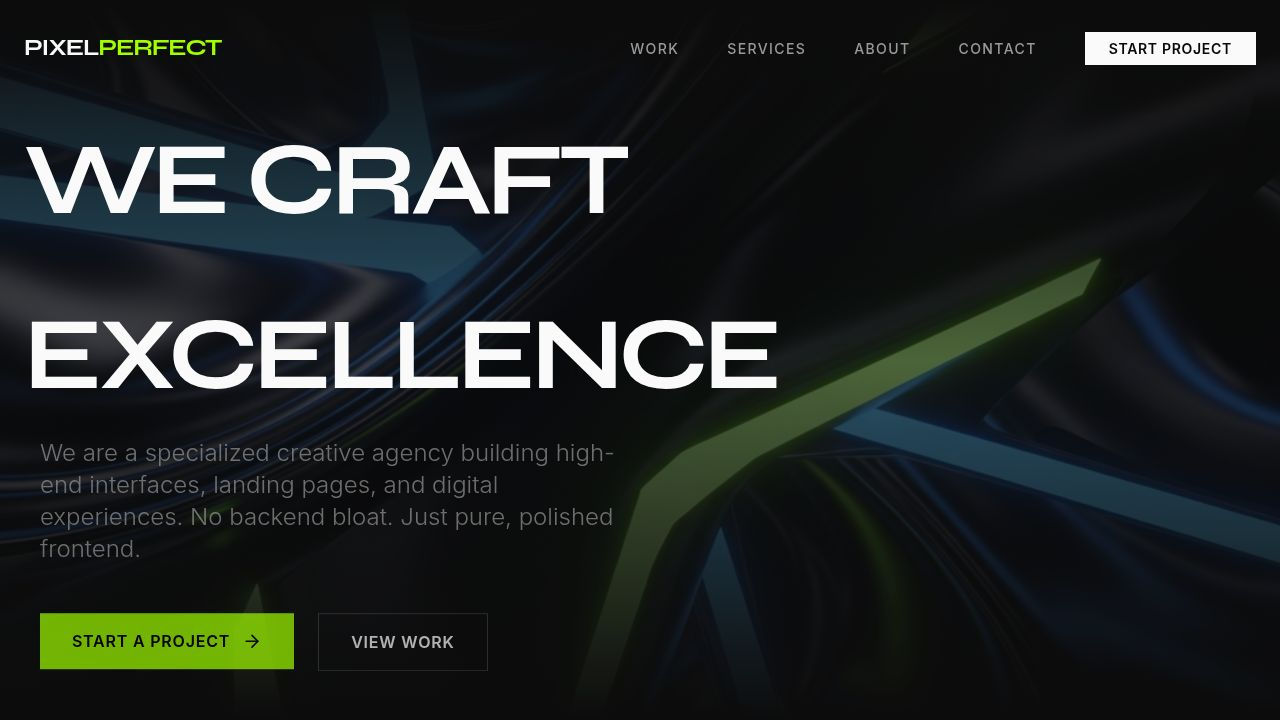
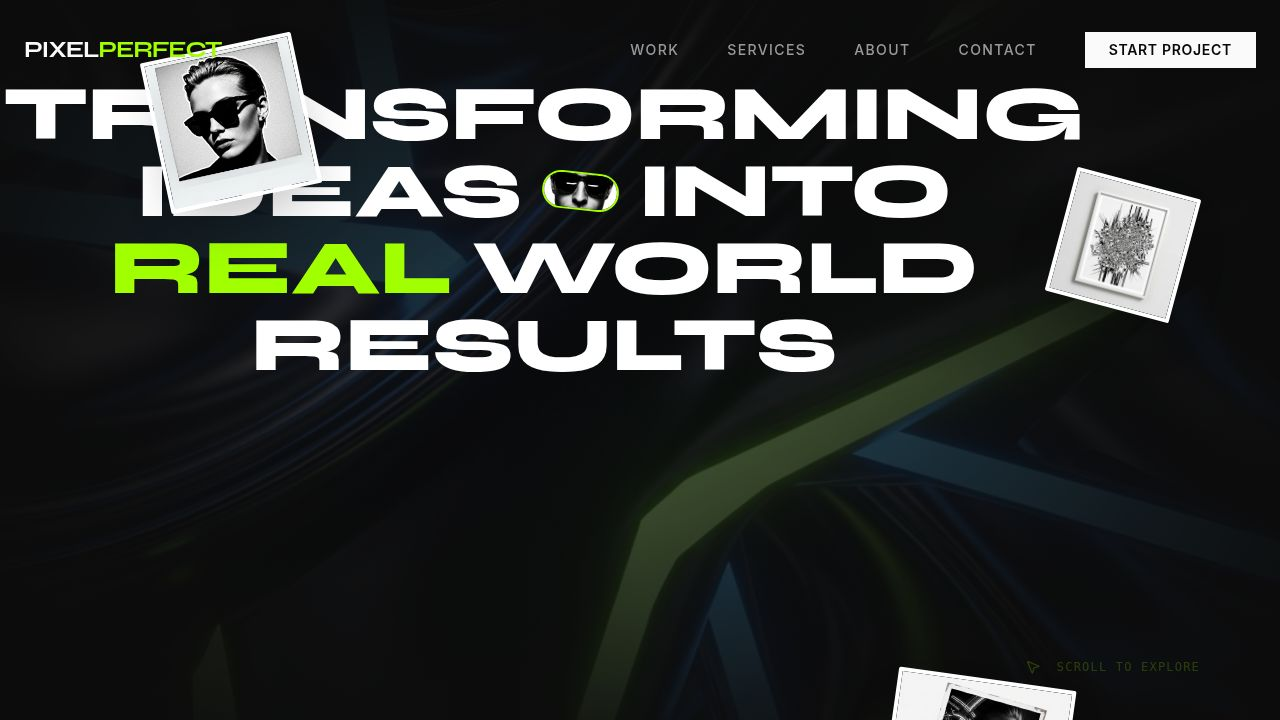
Update website footer and navigation links with branding
Refactors the Navbar and Footer components in `shell.tsx` to remove nested anchor tags within Link components, updating text and styling to incorporate branding colors and a LinkedIn link.

Replit-Commit-Author: Agent
Replit-Commit-Session-Id: aa901487-d86e-4758-8fdb-1e46351b3fc7
Replit-Commit-Checkpoint-Type: full_checkpoint
Replit-Commit-Event-Id: 31d03a36-e175-4af3-92c4-f4f409baf2d8
Replit-Commit-Screenshot-Url: https://storage.googleapis.com/screenshot-production-us-central1/0a1adc62-92b0-4a03-a96c-65dfef2bb2b2/aa901487-d86e-4758-8fdb-1e46351b3fc7/7o1QbPF
Replit-Helium-Checkpoint-Created: true

diff --git a/client/src/components/layout/shell.tsx b/client/src/components/layout/shell.tsx
@@ -31,29 +31,25 @@ export function Navbar() {
         }`}
       >
         <div className="container mx-auto px-6 flex items-center justify-between">
-          <Link href="/">
-            <a className="text-2xl font-display font-bold tracking-tighter uppercase z-50 relative hover:text-accent transition-colors">
-              Pixel<span className="text-accent">Perfect</span>
-            </a>
+          <Link href="/" className="text-2xl font-display font-bold tracking-tighter uppercase z-50 relative hover:text-accent transition-colors">
+            Pixel<span className="text-accent">Perfect</span>
           </Link>
 
           {/* Desktop Nav */}
           <div className="hidden md:flex items-center gap-12">
             {navLinks.map((link) => (
-              <Link key={link.name} href={link.href}>
-                <a
-                  className={`text-sm font-medium uppercase tracking-widest hover:text-accent transition-colors ${
-                    location === link.href ? "text-accent" : "text-muted-foreground"
-                  }`}
-                >
-                  {link.name}
-                </a>
+              <Link 
+                key={link.name} 
+                href={link.href}
+                className={`text-sm font-medium uppercase tracking-widest hover:text-accent transition-colors ${
+                  location === link.href ? "text-accent" : "text-muted-foreground"
+                }`}
+              >
+                {link.name}
               </Link>
             ))}
-            <Link href="/contact">
-              <a className="bg-foreground text-background px-6 py-2 text-sm font-bold uppercase tracking-wider hover:bg-accent hover:text-black transition-colors">
-                Start Project
-              </a>
+            <Link href="/contact" className="bg-foreground text-background px-6 py-2 text-sm font-bold uppercase tracking-wider hover:bg-accent hover:text-black transition-colors">
+              Start Project
             </Link>
           </div>
 
@@ -76,13 +72,13 @@ export function Navbar() {
       >
         <div className="flex flex-col items-center gap-8">
           {navLinks.map((link) => (
-            <Link key={link.name} href={link.href}>
-              <a
-                onClick={() => setIsOpen(false)}
-                className="text-4xl font-display font-bold uppercase hover:text-accent transition-colors"
-              >
-                {link.name}
-              </a>
+            <Link 
+              key={link.name} 
+              href={link.href}
+              onClick={() => setIsOpen(false)}
+              className="text-4xl font-display font-bold uppercase hover:text-accent transition-colors"
+            >
+              {link.name}
             </Link>
           ))}
         </div>
@@ -101,10 +97,8 @@ export function Footer() {
               Let's build <br />
               <span className="text-accent">icons.</span>
             </h2>
-            <Link href="/contact">
-              <a className="inline-block border border-white/20 px-8 py-4 text-xl uppercase tracking-widest hover:bg-accent hover:text-black hover:border-accent transition-all duration-300">
-                Start a Project
-              </a>
+            <Link href="/contact" className="inline-block border border-white/20 px-8 py-4 text-xl uppercase tracking-widest hover:bg-accent hover:text-black hover:border-accent transition-all duration-300">
+              Start a Project
             </Link>
           </div>
           <div className="flex flex-col justify-end items-start md:items-end">
@@ -127,8 +121,16 @@ export function Footer() {
             <span>Berlin</span>
           </div>
         </div>
-        <div className="w-full text-center mt-12 text-white/20 text-[10px] uppercase tracking-[0.2em] hover:text-white/60 transition-colors">
-            This website is built and managed with ❤️ by <a href="https://www.linkedin.com/in/moe-barbar/" target="_blank" className="hover:text-accent underline decoration-accent/50 underline-offset-4">Moe Barbar</a>
+        <div className="w-full text-center mt-12 text-white/40 text-xs uppercase tracking-[0.15em] hover:text-white/80 transition-colors">
+            Designed & developed with <span className="text-accent">❤️</span> by{" "}
+            <a 
+              href="https://www.linkedin.com/in/moe-barbar/" 
+              target="_blank" 
+              className="text-accent hover:text-white font-bold underline decoration-accent underline-offset-4 transition-colors"
+              data-testid="link-moe-linkedin"
+            >
+              Moe Barbar
+            </a>
         </div>
       </div>
     </footer>